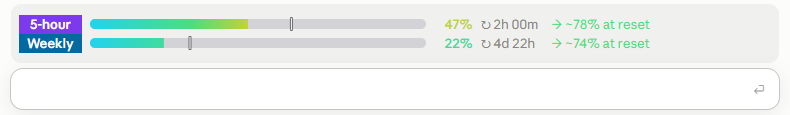
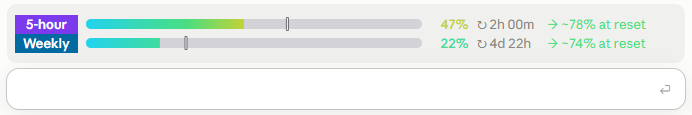
Made usage-band bars render correctly in VS Code

diff --git a/usage-band/hooks/register.tsx b/usage-band/hooks/register.tsx
@@ -1,5 +1,5 @@
 import { atom, read, update } from 'claude-code'
-import type { EngineInterface, Register, Timer } from 'claude-code'
+import type { BoxProps, EngineInterface, Register, RenderElement, Timer } from 'claude-code'
 
 import type { UsageReading, UsageWindow } from '../types'
 
@@ -47,10 +47,24 @@ const RESET_W = 8
 const PACE_W = 22
 const MAX_BAR = 48
 
-// The desktop's bar is an SVG: CSS pixels per cell of bar width, its height and the track's inset from it
-const CELL_PX = 7
+// Outside the terminal the bar is an SVG: its height in CSS pixels and the track's inset from it
 const BAR_H = 14
 const BAR_INSET = 2
+
+// The desktop and VS Code lay the row out themselves: the bar grows from its least width into the room the figures
+// leave. Their bodyColumns can count wider cells than the layout's (VS Code), so it only decides whether the forecast fits
+const SVG_GAP = 1
+const SVG_MIN_BAR = 10
+// A proportional "100%" runs wider than four cells
+const SVG_PCT_W = PCT_W + 1
+const SVG_RESET_W = 10
+const SVG_PACE_W = 18
+// The row's columns at their least widths, in order: the forecast shows where they all fit with the gaps between them
+const SVG_COLUMNS = [PILL_W, SVG_MIN_BAR, SVG_PCT_W, SVG_RESET_W, SVG_PACE_W]
+const SVG_PACE_FROM = SVG_COLUMNS.reduce((sum, w) => sum + w, 0) + (SVG_COLUMNS.length - 1) * SVG_GAP
+// They draw an SVG with no width of their own 300 px wide, and one wider than its box as wide as the box. That width
+// goes on the element: a width in the markup makes them scale the drawing, which blurs its pixel lengths
+const SVG_WIDEST = 4096
 
 type Bar = { key: string; width: number; used: number; marker: number | null }
 type Row = {
@@ -131,66 +145,77 @@ export const register: Register = on => {
     const below = await next(e)
     const now = await $.clock.now()
     const rows = sorted(data.windows).map(w => describe(w, now))
-    const hasPace = e.props.bodyColumns - (PILL_W + PCT_W + RESET_W + PACE_W + 4) >= 12
-    const fixed = hasPace ? PILL_W + PCT_W + RESET_W + PACE_W + 4 : PILL_W + PCT_W + RESET_W + 3
-    const width = Math.max(6, Math.min(MAX_BAR, e.props.bodyColumns - fixed))
-    const lines = rows.map(row => ({
-      row,
-      bar: {
-        key: `bar-${row.kind}`,
-        width,
-        used: row.used,
-        marker: row.elapsed === null ? null : Math.min(width - 1, Math.floor(row.elapsed * width)),
-      },
-    }))
     const { Box, Text } = $.ui.resolve(e)
-    const Raster = e.surface === 'terminal' ? $.ui.resolve(e).Raster : null
-    const Svg = e.surface === 'desktop' ? $.ui.resolve(e).Svg : null
     const age = now - data.at
+    let lines: RenderElement[]
+    let column: BoxProps = {}
 
-    // Only the terminal's Rasters take the shimmer's frames
-    if (Raster !== null) {
-      site = { requestId: e.requestId, bars: lines.map(line => line.bar) }
+    if (e.surface === 'terminal') {
+      const { Raster } = $.ui.resolve(e)
+      const hasPace = e.props.bodyColumns - (PILL_W + PCT_W + RESET_W + PACE_W + 4) >= 12
+      const fixed = hasPace ? PILL_W + PCT_W + RESET_W + PACE_W + 4 : PILL_W + PCT_W + RESET_W + 3
+      const width = Math.max(6, Math.min(MAX_BAR, e.props.bodyColumns - fixed))
+      const drawn = rows.map(row => ({
+        row,
+        bar: {
+          key: `bar-${row.kind}`,
+          width,
+          used: row.used,
+          marker: row.elapsed === null ? null : Math.min(width - 1, Math.floor(row.elapsed * width)),
+        },
+      }))
+      // Only the terminal's Rasters take the shimmer's frames
+      site = { requestId: e.requestId, bars: drawn.map(line => line.bar) }
+      lines = drawn.map(({ row, bar }) => (
+        <Box flexDirection="row" gap={1}>
+          <Text backgroundColor={row.pill} color="#ffffff" bold>
+            {row.label}
+          </Text>
+          <Raster key={bar.key} columns={width} rows={1} cells={cells(bar, null)} />
+          <Text color={row.tip} bold>
+            {`${Math.round(row.used)}%`.padStart(PCT_W)}
+          </Text>
+          <Text dimColor>{row.reset.padEnd(RESET_W)}</Text>
+          {hasPace && row.pace !== null && <Text color={row.pace.color}>{row.pace.text}</Text>}
+        </Box>
+      ))
+    } else {
+      // Every other surface (the desktop, VS Code) draws the bar as an SVG
+      const { Svg } = $.ui.resolve(e)
+      const hasPace = e.props.bodyColumns >= SVG_PACE_FROM
+      // The rows span the band, so the bars have room to grow into
+      column = { flexGrow: 1, alignItems: 'stretch' }
+      lines = rows.map(row => (
+        // The desktop and VS Code set a proportional font and fold runs of spaces: boxes of fixed width keep the columns
+        <Box flexDirection="row" alignItems="center" gap={SVG_GAP}>
+          <Box width={PILL_W} justifyContent="center" backgroundColor={row.pill}>
+            <Text color="#ffffff" bold>
+              {row.label.trim()}
+            </Text>
+          </Box>
+          {/* The SVG fills its box, and both boxes grow alike, as the boxes beside them are equally wide */}
+          <Box key={`bar-${row.kind}`} width={SVG_MIN_BAR} flexGrow={1}>
+            <Svg source={svg(row)} alt={describeBar(row)} width={SVG_WIDEST} height={BAR_H} />
+          </Box>
+          <Box minWidth={SVG_PCT_W} justifyContent="flex-end">
+            <Text color={row.tip} bold>{`${Math.round(row.used)}%`}</Text>
+          </Box>
+          <Box minWidth={SVG_RESET_W}>
+            <Text dimColor>{row.reset}</Text>
+          </Box>
+          {hasPace && (
+            <Box minWidth={SVG_PACE_W}>
+              {row.pace !== null && <Text color={row.pace.color}>{row.pace.text}</Text>}
+            </Box>
+          )}
+        </Box>
+      ))
     }
 
     return (
       <Box flexDirection="row" flexWrap="wrap" justifyContent="space-between" columnGap={1}>
-        <Box flexDirection="column">
-          {lines.map(({ row, bar }) =>
-            Raster !== null ? (
-              <Box flexDirection="row" gap={1}>
-                <Text backgroundColor={row.pill} color="#ffffff" bold>
-                  {row.label}
-                </Text>
-                <Raster key={bar.key} columns={width} rows={1} cells={cells(bar, null)} />
-                <Text color={row.tip} bold>
-                  {`${Math.round(row.used)}%`.padStart(PCT_W)}
-                </Text>
-                <Text dimColor>{row.reset.padEnd(RESET_W)}</Text>
-                {hasPace && row.pace !== null && <Text color={row.pace.color}>{row.pace.text}</Text>}
-              </Box>
-            ) : (
-              // The desktop sets a proportional font and folds runs of spaces: boxes of fixed width keep the columns
-              <Box flexDirection="row" alignItems="center" gap={1}>
-                <Box width={PILL_W} justifyContent="center" backgroundColor={row.pill}>
-                  <Text color="#ffffff" bold>
-                    {row.label.trim()}
-                  </Text>
-                </Box>
-                {Svg !== null && (
-                  <Svg source={svg(row, width)} alt={describeBar(row)} width={width * CELL_PX} height={BAR_H} />
-                )}
-                {/* A proportional "100%" runs wider than four cells */}
-                <Box minWidth={PCT_W + 1} justifyContent="flex-end">
-                  <Text color={row.tip} bold>{`${Math.round(row.used)}%`}</Text>
-                </Box>
-                <Box minWidth={RESET_W}>
-                  <Text dimColor>{row.reset}</Text>
-                </Box>
-                {hasPace && row.pace !== null && <Text color={row.pace.color}>{row.pace.text}</Text>}
-              </Box>
-            ),
-          )}
+        <Box flexDirection="column" {...column}>
+          {lines}
           {age > STALE_AFTER && (
             <Text dimColor italic>
               As of {duration(age)} ago · updates with the next response
@@ -360,25 +385,27 @@ function cells(bar: Bar, head: number | null): string {
   return base64(new Uint8Array(words.buffer))
 }
 
-// The desktop's bar: the gradient up to the fill over a track, the pace marker a white line with a dark edge that shows in either theme
-function svg(row: Row, width: number): string {
-  const w = width * CELL_PX
-  const fill = round((Math.min(row.used, 100) / 100) * w)
+// The SVG bar: the gradient up to the fill over a track, the pace marker a white line with a dark edge that shows in either theme.
+// With no viewBox it is drawn unscaled at the width its box gives it: lengths along the bar in percent, the rest in
+// pixels that stay sharp
+function svg(row: Row): string {
   const track = BAR_H - 2 * BAR_INSET
   const stops = STOPS.map(([at, color]) => `<stop offset="${at}" stop-color="${hex(color)}"/>`).join('')
-  const x = row.elapsed === null ? null : round(Math.min(w - 2, Math.max(2, row.elapsed * w)))
+  // A nested svg places the marker at a share of the width and draws its lines in pixels from there, shifted so that
+  // its 3 px move along the width less 3 px: whole at either end
   const marker =
-    x === null
+    row.elapsed === null
       ? ''
-      : `<rect x="${round(x - 1.5)}" width="3" height="${BAR_H}" rx="1" fill="#1e1e2a" fill-opacity="0.6"/>` +
-        `<rect x="${round(x - 0.5)}" y="1" width="1" height="${BAR_H - 2}" fill="#ffffff"/>`
+      : `<svg x="${percent(row.elapsed)}" overflow="visible">` +
+        `<rect x="${round(-3 * row.elapsed)}" width="3" height="${BAR_H}" rx="1" fill="#1e1e2a" fill-opacity="0.6"/>` +
+        `<rect x="${round(1 - 3 * row.elapsed)}" y="1" width="1" height="${BAR_H - 2}" fill="#ffffff"/></svg>`
 
   return (
-    `<svg xmlns="http://www.w3.org/2000/svg" width="${w}" height="${BAR_H}" viewBox="0 0 ${w} ${BAR_H}">` +
-    `<defs><linearGradient id="g" gradientUnits="userSpaceOnUse" x1="0" y1="0" x2="${w}" y2="0">${stops}</linearGradient>` +
-    `<clipPath id="c"><rect y="${BAR_INSET}" width="${w}" height="${track}" rx="${track / 2}"/></clipPath></defs>` +
-    `<g clip-path="url(#c)"><rect width="${w}" height="${BAR_H}" fill="#8b8ba0" fill-opacity="0.3"/>` +
-    `<rect width="${fill}" height="${BAR_H}" fill="url(#g)"/></g>${marker}</svg>`
+    `<svg xmlns="http://www.w3.org/2000/svg" width="100%" height="${BAR_H}">` +
+    `<defs><linearGradient id="g" gradientUnits="userSpaceOnUse" x1="0" y1="0" x2="100%" y2="0">${stops}</linearGradient>` +
+    `<clipPath id="c"><rect y="${BAR_INSET}" width="100%" height="${track}" rx="${track / 2}"/></clipPath></defs>` +
+    `<g clip-path="url(#c)"><rect width="100%" height="${BAR_H}" fill="#8b8ba0" fill-opacity="0.3"/>` +
+    `<rect width="${percent(Math.min(row.used, 100) / 100)}" height="${BAR_H}" fill="url(#g)"/></g>${marker}</svg>`
   )
 }
 
@@ -386,6 +413,10 @@ function describeBar(row: Row): string {
   const elapsed = row.elapsed === null ? '' : `, ${Math.round(row.elapsed * 100)}% of the window elapsed`
 
   return `${row.label.trim()}: ${Math.round(row.used)}% used${elapsed}`
+}
+
+function percent(share: number): string {
+  return `${round(share * 100)}%`
 }
 
 function round(n: number): number {

diff --git a/usage-band/tests/usage-band.test.tsx b/usage-band/tests/usage-band.test.tsx
@@ -3,7 +3,9 @@ import { expect, mock, test } from 'claude-code/testing'
 
 const NOW = Date.parse('2026-10-05T12:00:00Z')
 const HOUR = 3_600_000
-const SURFACES = ['terminal', 'desktop'] as const
+// The surfaces that draw the bars as SVG, and all of them
+const SVG_SURFACES = ['desktop', 'vscode'] as const
+const SURFACES = ['terminal', ...SVG_SURFACES] as const
 
 const BAND = {
   hasSurvey: false,
@@ -58,12 +60,21 @@ test('draws both windows with countdown and forecast after a measurement', async
       expect(bars).toHaveLength(0)
     } else {
       expect(raster).toBeUndefined()
-      // Both bars equally wide, so the columns after them line up
-      expect(bars.map(found => found.props.width)).toEqual([336, 336])
+      // Each SVG fills a box that grows alike in both rows from the same least width, so the columns after them line up
+      const boxes = await Promise.all(['bar-five_hour', 'bar-seven_day'].map(key => ui.find({ type: 'Box', key })))
+      expect(boxes.map(found => [found?.props.width, found?.props.flexGrow])).toEqual([
+        [10, 1],
+        [10, 1],
+      ])
+      // Wider than any box, so the surface draws it as wide as its box; the markup unscaled at that width
+      expect(bars.map(found => found.props.width)).toEqual([4096, 4096])
+      expect(String(bars[0]?.props.source)).toContain('width="100%" height="14"')
+      expect(String(bars[0]?.props.source)).not.toContain('viewBox')
       expect(bars[0]?.props.alt).toBe('5-hour: 60% used, 20% of the window elapsed')
-      // 60% of 336 px filled, the pace marker's white line at 20%
-      expect(String(bars[0]?.props.source)).toContain('<rect width="201.6"')
-      expect(String(bars[0]?.props.source)).toContain('<rect x="66.7" y="1" width="1"')
+      // 60% filled, the pace marker at 20%: shifted by 3 px × 20% so that it stays whole at either end
+      expect(String(bars[0]?.props.source)).toContain('<rect width="60%"')
+      expect(String(bars[0]?.props.source)).toContain('<svg x="20%" overflow="visible"><rect x="-0.6" width="3"')
+      expect(String(bars[0]?.props.source)).toContain('<rect x="0.4" y="1" width="1"')
     }
   }
 })
@@ -128,6 +139,27 @@ test('narrow band drops the forecast and shrinks the bar', async ($, on) => {
   expect((await ui.find({ type: 'Raster', key: 'bar-five_hour' }))?.props.columns).toBe(27)
 })
 
+for (const surface of SVG_SURFACES) {
+  test(`a narrow band on ${surface} drops the forecast and leaves the bar the room`, async ($, on) => {
+    mock.clock(on, { now: NOW })
+    beneath(on)
+    mock.store(on)
+    await $.session.start({ cwd: '/tmp', surface, isInteractive: true })
+    await $.session.measure({ context: { window: 200_000 }, rateLimits: LIMITS, changed: ['rateLimits'] })
+
+    const ui = await $.ui.mount({
+      plugin: 'usage-band',
+      surface,
+      component: 'AbovePrompt',
+      props: { ...BAND, bodyColumns: 31 },
+    })
+
+    expect(await ui.find({ text: /full in|at reset/ })).toBeUndefined()
+    expect((await ui.find({ type: 'Box', key: 'bar-five_hour' }))?.props.flexGrow).toBe(1)
+    expect(await ui.findAll({ type: 'Svg' })).toHaveLength(2)
+  })
+}
+
 test('draws nothing without a reading or while a survey holds the band', async ($, on) => {
   mock.clock(on, { now: NOW })
   beneath(on)
@@ -185,23 +217,25 @@ test('a light runs along the bars while a turn runs and stops when it ends', asy
   }
 })
 
-test('the desktop bars have no Raster for the light to paint', async ($, on) => {
-  const clock = mock.clock(on, { now: NOW })
-  beneath(on)
-  mock.store(on)
-  on('turn.start', (_$, e) => ({ turnId: e.turnId }))
-  const blits: string[] = []
-  on('ui.blit', (_$, e) => {
-    blits.push(e.key)
+for (const surface of SVG_SURFACES) {
+  test(`the SVG bars on ${surface} have no Raster for the light to paint`, async ($, on) => {
+    const clock = mock.clock(on, { now: NOW })
+    beneath(on)
+    mock.store(on)
+    on('turn.start', (_$, e) => ({ turnId: e.turnId }))
+    const blits: string[] = []
+    on('ui.blit', (_$, e) => {
+      blits.push(e.key)
 
-    return { value: {} }
+      return { value: {} }
+    })
+
+    await $.session.start({ cwd: '/tmp', surface, isInteractive: true })
+    await $.session.measure({ context: { window: 200_000 }, rateLimits: LIMITS, changed: ['rateLimits'] })
+    await $.ui.mount({ plugin: 'usage-band', surface, component: 'AbovePrompt', props: BAND })
+
+    await $.turn.start({ text: 'hi', turnId: 't1' })
+    await clock.advance(400)
+    expect(blits).toHaveLength(0)
   })
-
-  await $.session.start({ cwd: '/tmp', surface: 'desktop', isInteractive: true })
-  await $.session.measure({ context: { window: 200_000 }, rateLimits: LIMITS, changed: ['rateLimits'] })
-  await $.ui.mount({ plugin: 'usage-band', surface: 'desktop', component: 'AbovePrompt', props: BAND })
-
-  await $.turn.start({ text: 'hi', turnId: 't1' })
-  await clock.advance(400)
-  expect(blits).toHaveLength(0)
-})
+}

diff --git a/README.md b/README.md
@@ -45,9 +45,14 @@ claude plugin install color-chooser@local-mods --scope user
 
 ### usage-band
 
-![usage-band: 5-hour and weekly limit bars above the prompt (CLI)](images/usage-band.png)
+![usage-band: 5-hour and weekly limit bars above the prompt (CLI)](images/usage-band.png)<br>
+<sub>Terminal</sub>
 
-![usage-band: 5-hour and weekly limit bars above the prompt (app)](images/usage-band-app.png)
+![usage-band: 5-hour and weekly limit bars above the prompt (app)](images/usage-band-app.png)<br>
+<sub>Desktop app</sub>
+
+![usage-band: 5-hour and weekly limit bars above the prompt (VS Code)](images/usage-band-vscode.png)<br>
+<sub>VS Code extension</sub>
 
 Band above the prompt showing the 5-hour and weekly rate limits of a Claude subscription. Each limit gets a gradient bar, a white tick for the time elapsed in the window, a countdown to the reset and a forecast at the current rate (`→ ~75% at reset` or `▲ full in 40m`). In the terminal a light sweeps the bars while Claude works. A new session starts from the last reading of any other session on the same machine. What other mods draw in the band stays beside the bars, or moves under them when there is no room. Collapse the band with `ctrl+x ctrl+a`.
 
@@ -56,7 +61,7 @@ How to read it:
 - **White tick:** how much of the window has already passed. If the bar ends left of it, you are using the limit more slowly than it allows; right of it, faster.
 - **Forecast:** the pace so far, carried forward: used ÷ share of the window elapsed.
 
-Draws in the terminal and in the Desktop app's Code tab, where the bars are drawn as SVG. Shows nothing for API-key accounts, which have no rate-limit windows.
+Draws in the terminal, in the Desktop app's Code tab and in the VS Code extension; outside the terminal the bars are drawn as SVG and grow with the window into the room beside the figures. Shows nothing for API-key accounts, which have no rate-limit windows.
 
 ```bash
 claude plugin install usage-band@local-mods --scope user
